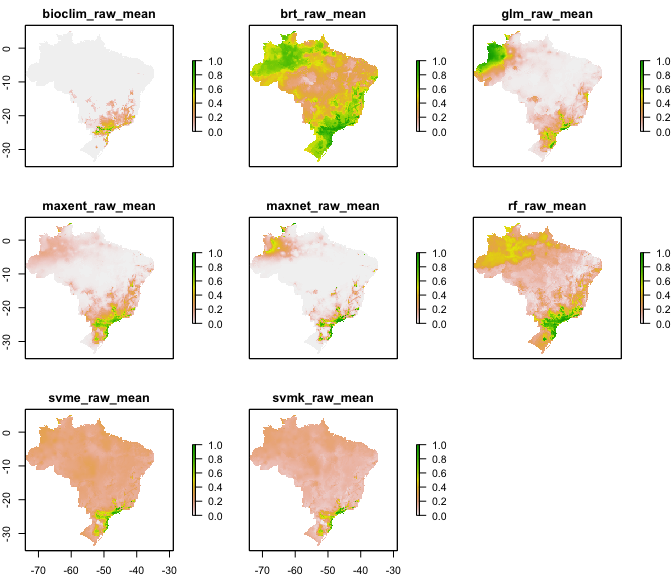
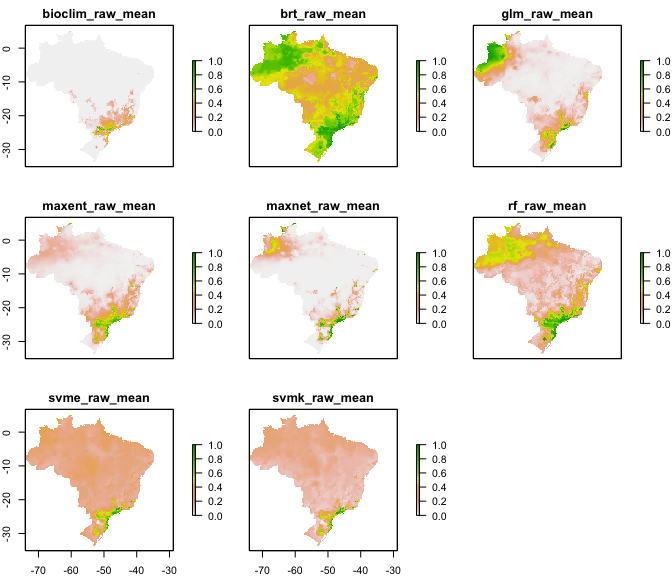
installing maxnet from GitHub fixes #27 thanks @ndimhypervol

Changed region(s): [[0.375, 0.0625, 0.5625, 0.25], [0.7812, 0.4688, 0.9062, 0.625], [0.7188, 0.4062, 0.8125, 0.5]]

diff --git a/README.md b/README.md
@@ -39,9 +39,17 @@ will include the vignette on the installation but we have found that
 `build_vignettes = TRUE` is also necessary. During installation, R may
 ask to install or update some packages. If any of these return an error
 you can install them apart by running `install.packages()` and retry.
-When building the vignette, package **rJava** and a JDK will be needed.
-Also, make sure that the maxent.jar file is available and in the `java`
-folder of package **dismo**. Please download it
+
+Packages **kuenm** and **maxnet** should be installed from GitHub:
+
+``` r
+remotes::install_github("marlonecobos/kuenm")
+remotes::install_github("mrmaxent/maxnet")
+```
+
+To use `maxent()` from package **dismo**, package **rJava** and a JDK
+will be needed. Also, make sure that the `maxent.jar` file is available
+and in the `java` folder of package **dismo**. Please download it
 [here](http://www.cs.princeton.edu/~schapire/maxent/). Vignette building
 may take a while during installation.
 
@@ -411,8 +419,8 @@ many <- do_many(species_name = species[1],
                 glm = TRUE,
                 svmk = TRUE,
                 svme = TRUE,
-                maxent = FALSE,
-                maxnet = FALSE,
+                maxent = TRUE,
+                maxnet = TRUE,
                 rf = TRUE,
                 mahal = FALSE,
                 brt = TRUE,
@@ -542,9 +550,9 @@ ens <- ensemble_model(species_name = species[1],
                       which_final = "raw_mean",
                       models_dir = test_folder,
                       overwrite = TRUE) #argument from writeRaster
-#> [1] "Tue Oct 27 17:26:39 2020"
+#> [1] "Tue Oct 27 18:49:27 2020"
 #> [1] "DONE!"
-#> [1] "Tue Oct 27 17:27:34 2020"
+#> [1] "Tue Oct 27 18:50:19 2020"
 ```
 
 ``` r
